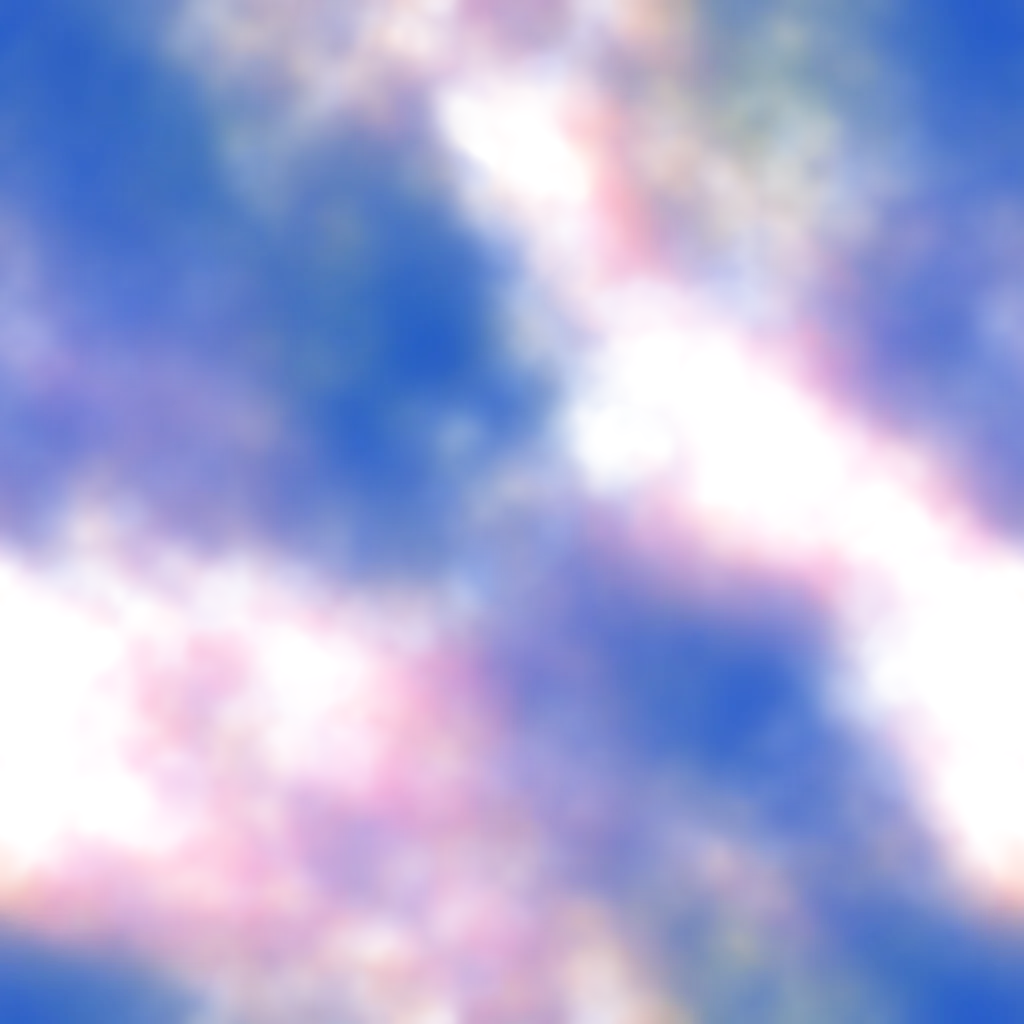
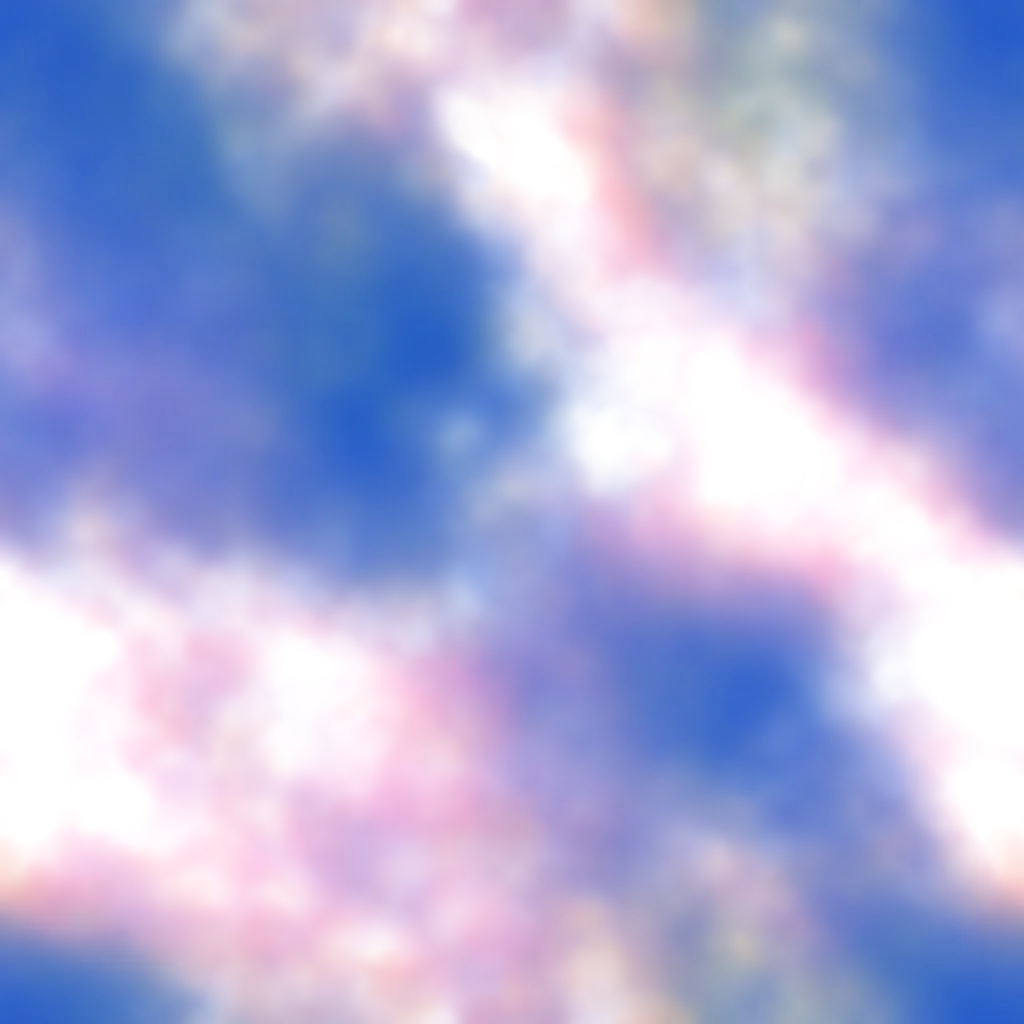
Version 218 : la couverture du ciel suit la prévision, étage par étage
Décisions de Jérôme sur cadrage : la part du ciel couverte suit la
couverture annoncée, à dix points près ; trois étages de nuages ; passage
progressif d'une heure à l'autre ; ciel fixe au défilement, avec un relief
à peine sensible ; ciel jusque sous la barre d'état, à côté de la pilule.

Mesure avant : à 50 % annoncés, 95 % de l'écran était couvert, et 46 % à
25 %.

Choix : la prévision lit les nuages bas, moyens et hauts d'Open-Meteo. Le
ciel WebGL les reçoit pour l'heure en cours et la suivante, et glisse de
l'une à l'autre au fil des minutes. Le générateur étalonne chaque texture,
trente-trois quantiles de son opacité dans src/etalonnage-nuages.js : le
seuil de chaque plan couvre exactement sa part. Les hauts en cirrus
jusqu'à 18 %, en voile d'altitude au delà ; les moyens en altocumulus, en
nappe au delà de 70 % ; les bas en deux plans superposés de cumulus,
cumulus denses ou stratus, en lambeaux sous la pluie. Les textures sont
refaites moins groupées en amas, un écran ne voyant qu'une dizaine de
nuages. Le relief au défilement est dix fois plus faible. La barre d'état
de l'application installée devient translucide ; sur les écrans clairs,
une bande sombre garde l'heure et la batterie lisibles.

Défauts trouvés en route : la part couverte mesurée sur un seul écran
variait de dix points d'un instant à l'autre, les nuages passant ; le
contrôle mesure la moyenne sur une toile élargie. À 25 % de nuages hauts,
[…]

diff --git a/src/ciel-gl.js b/src/ciel-gl.js
@@ -20,6 +20,8 @@
    `temps.js` garde la boucle, la pause hors écran et le dessin sur toile en
    repli : sans WebGL, ou quand la toile ne le demande pas, rien ne change. */
 
+import { QUANTILES } from "./etalonnage-nuages.js";
+
 const TEXTURES = ["cumulus", "dense", "stratus", "alto", "fractus", "cirrus"];
 const SORTE = { cumulus: 0, dense: 0, stratus: 1, cirrus: 2, alto: 3, fractus: 4 };
 
@@ -29,8 +31,8 @@ precision highp float;
 uniform vec2 uRes; uniform float uT, uDefile, uApparition;
 uniform vec3 uHaut, uBas, uClair, uSombre, uAstre;
 uniform float uNuit, uChaud, uPluie, uNeige, uVent, uOrage, uN, uHalo, uMiroir, uBrouillard, uVoile, uDoux;
-uniform vec4 uC[4]; // sorte, profondeur, couverture, opacité
-uniform vec4 uD[4]; // ombre, libre, graine, libre
+uniform vec4 uC[4]; // sorte, profondeur, seuil d'opacité, opacité
+uniform vec4 uD[4]; // ombre, largeur du bord, graine, libre
 uniform sampler2D uTex[4];
 uniform sampler2D uBrume;
 float h21(vec2 p){ p = fract(p * vec2(123.34, 456.21)); p += dot(p, p + 45.32); return fract(p.x * p.y); }
@@ -77,9 +79,13 @@ void main(){
     vec2 q = p / carreau;
     q.x = q.x * uMiroir;
     q.x += uT * vent * mix(0.35, 2.4, prof) * 2.4 + e.z * 0.13;
-    q.y += uDefile * mix(0.15, 1.1, prof) / carreau + e.z * 0.071;
+    /* Un relief à peine sensible au défilement, version 218 : le ciel reste
+       fixe, seuls les plans proches glissent un peu. */
+    q.y += uDefile * mix(0.0, 0.1, prof) / carreau + e.z * 0.071;
     vec4 t = texture2D(uTex[i], q);
-    float dens = smoothstep(0.06, 0.7, t.a * mix(0.6, 1.5, c.z)) * c.w * (abs(c.x - 2.0) < 0.5 ? 0.6 : 1.0) * uApparition;
+    /* Le seuil vient de l'étalonnage de la texture : la part de ciel couverte
+       est celle qu'annonce la prévision. */
+    float dens = smoothstep(c.z - e.y, c.z + e.y, t.a) * c.w * uApparition;
     if (dens < 0.003) continue;
     /* Sous un ciel ouvert, l'ombre des nuages reste claire, éclairée par le
        bleu du ciel ; sous un ciel fermé, elle prend le gris de la couche. */
@@ -178,30 +184,67 @@ const chargement = Promise.all(TEXTURES.map(n => new Promise(ok => {
    ciel-ci : `__cielSimple` est posé par le banc d'essai. */
 const simple = () => globalThis.__cielSimple === true && globalThis.__cielGL !== true;
 
-/* Les plans d'un ciel, d'après les grandeurs de `temps.js`. La variante, tirée
-   de la graine, change le mélange d'un tirage à l'autre : un ciel de beau
-   temps est tantôt fait de cumulus, tantôt de bancs d'altocumulus sous des
-   cirrus. */
+/* Les trois étages de l'heure en cours glissent vers ceux de l'heure
+   suivante au fil des minutes, version 218 : bas, moyens, hauts, de zéro à
+   un. Rend null quand la prévision ne les porte pas. */
+export function etagesA(brut, f) {
+  if (!Array.isArray(brut) || brut.length !== 6 || brut.some(v => !Number.isFinite(v))) return null;
+  const k = Math.max(0, Math.min(1, f));
+  const v = i => (brut[i] + (brut[i + 1] - brut[i]) * k) / 100;
+  return { b: v(0), m: v(2), h: v(4) };
+}
+
+/* Le seuil d'opacité qui couvre la part c de la texture, d'après son
+   étalonnage. Au delà de ce que la texture couvre, le seuil passe sous zéro
+   et le plan se ferme peu à peu en nappe. Rend aussi la largeur du bord :
+   étroite près de zéro, pour qu'un seuil bas ne voile pas tout le ciel. */
+export function seuil(tex, c) {
+  const Q = QUANTILES[tex];
+  const x = Math.max(0, Math.min(1, 1 - c)) * 32;
+  if (!Q) return { s: 1 - c, l: 0.06 };
+  const k = Math.min(31, Math.floor(x));
+  const v = Q[k] + (Q[k + 1] - Q[k]) * (x - k);
+  if (v > 0.015) return { s: v, l: Math.min(0.06, v * 0.8) };
+  const vide = Math.max(1, Q.findIndex(q => q > 0.015)) / 32;
+  const manque = Math.max(0, Math.min(1, (vide - (1 - c)) / vide));
+  return { s: 0.015 - manque * 0.14, l: 0.06 };
+}
+
+/* La couverture de chacun de deux plans qui, superposés, couvrent c. */
+const moitie = c => 1 - Math.sqrt(1 - Math.max(0, Math.min(1, c)));
+
+/* Les plans d'un ciel, du lointain au proche, quatre au plus. Avec les trois
+   étages de la prévision, chaque plan suit le sien : les hauts en cirrus, ou
+   en voile de cirrostratus au delà de ce que couvrent les fibres ; les moyens
+   en altocumulus, ou en nappe ; les bas en deux plans de cumulus, de cumulus
+   denses ou de stratus selon la couverture, et en lambeaux sous la pluie.
+   Sans les étages, la couverture totale va aux nuages bas. La variante, tirée
+   de la graine, change le mélange des nuages bas d'un tirage à l'autre. */
 export function plansDe(d, graine) {
   const v = ((graine % 3) + 3) % 3;
-  const plans = [];
-  const plan = (tex, prof, couv, op, ombre) => plans.push({ tex, prof, couv, op, ombre });
+  const E = d.etages || { b: Number.isFinite(d.couv) ? d.couv : Math.max(d.cumulus, d.nappe), m: 0, h: 0 };
   const pluie = d.lame > 0 || d.orage;
-  const ombre = Math.min(0.9, 0.3 + d.nappe * 0.2 + (pluie ? 0.3 : 0) + (d.orage ? 0.2 : 0));
-  if (d.nappe < 0.85 && d.cumulus < 0.7 && !pluie && (v !== 1 || d.cumulus < 0.15)) {
-    plan("cirrus", 0, 0.35 + 0.4 * (1 - d.cumulus), 0.55, 0);
+  const ombre = Math.min(0.9, 0.3 + E.b * 0.25 + (pluie ? 0.3 : 0) + (d.orage ? 0.2 : 0));
+  const plans = [];
+  const plan = (tex, prof, couv, op, om) => {
+    if (couv < 0.02) return;
+    const t = seuil(tex, couv);
+    plans.push({ tex, prof, couv, seuil: t.s, bord: t.l, op, ombre: om });
+  };
+  if (E.h >= 0.02) {
+    if (E.h <= 0.18) plan("cirrus", 0, E.h, 0.45, 0);
+    else plan("stratus", 0, E.h, 0.32, 0);
   }
-  if (d.nappe > 0.02) {
-    plan("stratus", 0.05, 0.5 + 0.5 * d.nappe, Math.min(1, d.nappe * 1.4), ombre);
-    if (d.nappe > 0.5) plan(v === 2 && !pluie ? "alto" : "dense", 0.45, 0.4 + 0.4 * d.nappe, 1, ombre);
+  if (E.m >= 0.02) plan(E.m <= 0.7 ? "alto" : "stratus", 0.3, E.m, 0.95, ombre * 0.8);
+  if (E.b >= 0.02) {
+    const c = moitie(E.b);
+    const sorte = cb => (cb > 0.85 ? "stratus" : cb > 0.42 ? "dense" : "cumulus");
+    const loin = E.b > 0.85 ? "stratus" : sorte(c);
+    plan(loin, 0.6, c, 1, ombre);
+    if (pluie) plan("fractus", 0.95, Math.min(0.55, c), 0.92, Math.min(0.95, ombre + 0.1));
+    else plan(v === 1 && c > 0.1 ? "dense" : sorte(c), 0.92, c, 1, ombre);
   }
-  if (d.cumulus > 0.02) {
-    const mi = d.cumulus >= 0.55 ? "dense" : v === 1 ? "alto" : "cumulus";
-    plan(mi, 0.45, Math.min(0.9, d.cumulus * 0.85), 1, ombre);
-    if (plans.length < 4 && d.cumulus > 0.12) plan(d.cumulus >= 0.55 ? "dense" : "cumulus", 0.9, d.cumulus * 0.6, 1, ombre);
-  }
-  if (pluie && plans.length < 4) plan("fractus", 0.95, Math.min(0.75, 0.3 + d.lame * 0.05), 0.92, Math.min(0.95, ombre + 0.1));
-  return plans.slice(0, 4);
+  return plans.slice(-4);
 }
 
 /* Le peintre d'une toile, ou null quand WebGL manque. */
@@ -287,14 +330,14 @@ export function peintre(cv) {
     g.uniform1f(U.uVoile, e.voile);
     g.uniform1f(U.uDoux, e.derriere ? 1 : 0);
     const plans = plansDe(e, e.graine);
-    g.uniform1f(U.uHalo, plans.some(p => p.tex === "cirrus") && e.cumulus < 0.3 && e.nappe < 0.3 ? 0.7 : 0);
+    g.uniform1f(U.uHalo, plans.some(p => p.tex === "cirrus" || (p.tex === "stratus" && p.prof === 0)) && plans.every(p => p.prof === 0 || p.couv < 0.3) ? 0.7 : 0);
     const C = new Float32Array(16), D = new Float32Array(16);
     plans.forEach((p, i) => {
-      C.set([SORTE[p.tex], p.prof, p.couv, p.op], i * 4);
+      C.set([SORTE[p.tex], p.prof, p.seuil, p.op], i * 4);
       /* Le décalage du tirage reste petit : ajouté tel quel, un nombre de
          l'ordre de cent mille dépassait la précision de la carte graphique,
          et les nuages sortaient en pavés. */
-      D.set([p.ombre, 0, ((e.graine * 0.618034) % 1) * 7 + i * 3.7, 0], i * 4);
+      D.set([p.ombre, p.bord, ((e.graine * 0.618034) % 1) * 7 + i * 3.7, 0], i * 4);
     });
     g.uniform4fv(U.uC, C); g.uniform4fv(U.uD, D); g.uniform1f(U.uN, plans.length);
     plans.forEach((p, i) => { g.activeTexture(g.TEXTURE0 + i); g.bindTexture(g.TEXTURE_2D, tex[p.tex] || null); });

diff --git a/src/temps.js b/src/temps.js
@@ -71,7 +71,7 @@ export function depuis(code, nua, mm) {
   const lame = mouille ? borne((mm ?? 0) * 1.6, 1.2, 10) : 0;
 
   return {
-    cumulus, nappe, lame, brouillard, orage,
+    cumulus, nappe, lame, brouillard, orage, couv: n,
     genre: mouille ? (neige ? "neige" : "pluie") : "",
   };
 }
@@ -138,6 +138,11 @@ export function attributs(p, ciel, vent, astre) {
     "data-astre": astre ? astre.sorte : "",
     "data-ax": astre ? astre.x.toFixed(4) : "",
     "data-ay": astre ? astre.y.toFixed(4) : "",
+    /* La couverture totale, et les trois étages de l'heure en cours et de
+       la suivante quand la prévision les porte : le ciel WebGL s'en sert,
+       version 218. */
+    "data-couv": Number.isFinite(p.couv) ? p.couv.toFixed(3) : "",
+    "data-etages": Array.isArray(p.etages) ? p.etages.map(v => Math.round(Number(v) || 0)).join(",") : "",
   };
   return Object.entries(a).map(([c, v]) => `${c}="${v}"`).join(" ");
 }
@@ -158,6 +163,8 @@ function lire(cv) {
       nuit: Number(d.nuit) || 0, chaud: Number(d.chaud) || 0,
     },
     astre: d.astre ? { sorte: d.astre, x: Number(d.ax), y: Number(d.ay) } : null,
+    couv: d.couv === undefined || d.couv === "" ? null : Number(d.couv),
+    etages: d.etages ? d.etages.split(",").map(Number) : null,
   };
 }
 
@@ -920,7 +927,9 @@ export const enWebGL = cv => Boolean(cv && peintres.get(cv));
 const signatures = new WeakMap();
 function etatPour(cv, p) {
   const derriere = Boolean(cv.parentElement?.querySelector(".ci-astre.derriere #ciFeu"));
-  const sig = Object.values(cv.dataset).join("|") + derriere;
+  /* La minute compte : les étages de nuages glissent vers l'heure suivante. */
+  const minute = new Date().getMinutes();
+  const sig = Object.values(cv.dataset).join("|") + derriere + minute;
   if (signatures.get(cv) === sig) return;
   signatures.set(cv, sig);
   const d = lire(cv);
@@ -930,6 +939,7 @@ function etatPour(cv, p) {
     teinte: couleurs(d.ciel, couv, plombDe(d)),
     voile: voileDe(d),
     derriere,
+    etages: CielGL.etagesA(d.etages, minute / 60),
     /* Le tirage change toutes les trois heures : le même ciel d'un rendu à
        l'autre, un autre mélange de nuages dans la journée. */
     graine: Math.floor(Date.now() / (3 * 3600e3)),

diff --git a/src/etalonnage-nuages.js b/src/etalonnage-nuages.js
@@ -1,0 +1,15 @@
+/* L'étalonnage des textures de nuages, produit par
+   `node outils/construire-nuages.mjs` : ne pas modifier à la main.
+
+   Pour chaque texture, trente-trois quantiles de l'opacité, de zéro à un :
+   le quantile de rang k est l'opacité sous laquelle tombe la part k sur
+   trente-deux de la texture. Le ciel WebGL en déduit le seuil qui couvre
+   exactement la part de ciel annoncée, version 218. */
+export const QUANTILES = {
+  cumulus: [0, 0, 0, 0, 0, 0, 0, 0, 0, 0, 0, 0, 0, 0, 0, 0, 0, 0, 0.008, 0.023, 0.049, 0.094, 0.164, 0.227, 0.302, 0.386, 0.469, 0.548, 0.628, 0.694, 0.749, 0.8, 0.882],
+  dense: [0, 0, 0.014, 0.055, 0.124, 0.195, 0.257, 0.317, 0.369, 0.41, 0.45, 0.49, 0.529, 0.563, 0.598, 0.629, 0.658, 0.686, 0.715, 0.741, 0.763, 0.782, 0.8, 0.817, 0.833, 0.851, 0.87, 0.886, 0.902, 0.918, 0.93, 0.945, 0.969],
+  stratus: [0.38, 0.63, 0.693, 0.726, 0.756, 0.778, 0.796, 0.812, 0.827, 0.839, 0.85, 0.859, 0.867, 0.875, 0.88, 0.886, 0.892, 0.897, 0.902, 0.906, 0.91, 0.915, 0.92, 0.925, 0.929, 0.933, 0.939, 0.947, 0.957, 0.969, 0.973, 0.98, 0.984],
+  alto: [0, 0, 0, 0, 0, 0, 0.006, 0.02, 0.038, 0.058, 0.079, 0.1, 0.123, 0.146, 0.169, 0.192, 0.216, 0.239, 0.267, 0.294, 0.324, 0.355, 0.384, 0.413, 0.44, 0.467, 0.491, 0.516, 0.543, 0.571, 0.61, 0.65, 0.753],
+  fractus: [0, 0, 0, 0, 0, 0, 0, 0, 0, 0, 0, 0, 0.007, 0.017, 0.032, 0.053, 0.077, 0.106, 0.14, 0.179, 0.225, 0.271, 0.317, 0.361, 0.402, 0.444, 0.486, 0.525, 0.563, 0.603, 0.646, 0.7, 0.868],
+  cirrus: [0, 0, 0, 0, 0, 0, 0, 0, 0, 0, 0, 0, 0, 0, 0, 0, 0, 0, 0, 0, 0, 0.001, 0.004, 0.012, 0.022, 0.033, 0.048, 0.066, 0.086, 0.111, 0.145, 0.189, 0.375],
+};

diff --git a/src/previsions.js b/src/previsions.js
@@ -39,6 +39,9 @@ const HORAIRE = [
   "temperature_2m", "apparent_temperature", "dew_point_2m",
   "relative_humidity_2m", "precipitation", "precipitation_probability",
   "weather_code", "cloud_cover", "pressure_msl", "wind_speed_10m",
+  /* Les trois étages de nuages, bas, moyens et hauts, pour le ciel WebGL de
+     l'accueil, version 218 : chaque plan de nuages suit le sien. */
+  "cloud_cover_low", "cloud_cover_mid", "cloud_cover_high",
   "wind_gusts_10m", "wind_direction_10m", "uv_index", "is_day",
   /* L'évapotranspiration de référence, en millimètres par heure. C'est la
      vitesse à laquelle l'eau s'en va, et elle décide du séchage du linge.
@@ -635,6 +638,7 @@ export function serieHoraire(depart = 0, duree = 24, minimum = 8) {
     hum: p("relative_humidity_2m"), mm: p("precipitation", true),
     pb: p("precipitation_probability"), code: p("weather_code"),
     nua: p("cloud_cover"), pres: p("pressure_msl"),
+    nuaB: p("cloud_cover_low"), nuaM: p("cloud_cover_mid"), nuaH: p("cloud_cover_high"),
     v: p("wind_speed_10m"), raf: p("wind_gusts_10m"), dir: p("wind_direction_10m"),
     uv: p("uv_index"), clair: p("is_day"),
     /* La vitesse à laquelle l'eau s'en va. Une heure sans valeur vaut zéro et

diff --git a/outils/nuages.html b/outils/nuages.html
@@ -126,6 +126,20 @@ window.rendre = async (taille, reglages) => {
     await new Promise(r => setTimeout(r, 0));
   }
   g.disable(g.SCISSOR_TEST);
-  return cv.toDataURL("image/webp", 0.86);
+  /* L'étalonnage : la répartition de l'opacité, lue sur l'image réduite de
+     moitié, celle que la carte graphique échantillonne pour les plans
+     lointains. Trente-trois quantiles, de zéro à un. */
+  const px = new Uint8Array(taille * taille * 4);
+  g.readPixels(0, 0, taille, taille, g.RGBA, g.UNSIGNED_BYTE, px);
+  const m = taille / 2, alpha = new Float32Array(m * m);
+  for (let y = 0; y < m; y++) for (let x = 0; x < m; x++) {
+    let s = 0;
+    for (const [dx, dy] of [[0, 0], [1, 0], [0, 1], [1, 1]]) s += px[((2 * y + dy) * taille + 2 * x + dx) * 4 + 3];
+    alpha[y * m + x] = s / 4 / 255;
+  }
+  alpha.sort();
+  const quantiles = [];
+  for (let k = 0; k <= 32; k++) quantiles.push(Math.round(alpha[Math.min(alpha.length - 1, Math.floor(k / 32 * alpha.length))] * 1000) / 1000);
+  return { image: cv.toDataURL("image/webp", 0.86), quantiles };
 };
 </script>

diff --git a/styles.css b/styles.css
@@ -309,6 +309,15 @@ button:disabled,button[aria-disabled="true"],input:disabled{
   transition:border-color var(--duree-micro) ease;
 }
 .nav.pose{border-bottom-color:var(--verre-filet)}
+/* L'application installée dessine jusque sous la barre d'état, version 218 :
+   l'heure et la batterie s'y écrivent en blanc. Sur un écran clair, une bande
+   sombre sous la barre d'état les garde lisibles ; dans le navigateur, la
+   marge du haut est nulle et la bande aussi. */
+@media (prefers-color-scheme:light){
+  :root:not(.plein-ciel) .nav:not(.sur-ciel){
+    background-image:linear-gradient(180deg,rgba(18,26,38,.62) 0,rgba(18,26,38,.62) var(--haut),transparent var(--haut));
+  }
+}
 
 /* Sur un bandeau plein cadre, la barre de tête laisse voir le ciel : pas de
    matière, pas de filet, texte blanc. Elle reprend son verre dès que le

diff --git a/index.html b/index.html
@@ -16,7 +16,8 @@
 <meta name="theme-color" content="#0B0F14" media="(prefers-color-scheme: dark)">
 <meta name="description" content="Prévision heure par heure et à seize jours, pluie dans l'heure, vigilance Météo-France, ciel et carte.">
 <meta name="apple-mobile-web-app-capable" content="yes">
-<meta name="apple-mobile-web-app-status-bar-style" content="default">
+<!-- L'application installée dessine jusque sous la barre d'état, version 218 : le ciel de l'accueil occupe tout l'écran, à côté de la pilule. -->
+<meta name="apple-mobile-web-app-status-bar-style" content="black-translucent">
 <meta name="apple-mobile-web-app-title" content="Ma météo">
 <title>Ma météo</title>
 <link rel="manifest" href="./manifest.webmanifest">

diff --git a/src/app.js b/src/app.js
@@ -665,6 +665,11 @@ function ecranAccueil() {
        fond de page, la lisibilité : un chiffre orange sur un ciel de couchant
        ne se lit plus. */
     const params = Temps.depuis(code, s ? s.nua[0] : null, s ? s.mm[0] : null);
+    /* Les trois étages de nuages de l'heure en cours et de la suivante : le
+       ciel WebGL passe de l'une à l'autre au fil des minutes, version 218. */
+    if (s && s.nuaB?.length > 1 && s.nuaM?.length > 1 && s.nuaH?.length > 1) {
+      params.etages = [s.nuaB[0], s.nuaB[1], s.nuaM[0], s.nuaM[1], s.nuaH[0], s.nuaH[1]];
+    }
     plein = true;
     const bd = bandeauAccueil(g, new Date(), params, s ? s.v[0] : 0);
     /* Le ciel de l'accueil est plus bas que celui des autres écrans : la bande

diff --git a/sw.js b/sw.js
@@ -2,7 +2,7 @@
    réponse d'API : une prévision périmée servie sans le dire vaut moins qu'un
    message d'indisponibilité. */
 
-const VERSION = "ma-meteo-v217";
+const VERSION = "ma-meteo-v218";
 const DELAI_RESEAU = 3000;
 const COQUE = [
   "./",
@@ -42,6 +42,7 @@ const COQUE = [
   "./src/relief.js",
   "./src/temps.js",
   "./src/ciel-gl.js",
+  "./src/etalonnage-nuages.js",
   "./src/vigilance.js",
   "./src/ensemble.js",
   "./src/scenarios.js",

diff --git a/src/version.js b/src/version.js
@@ -12,7 +12,7 @@
    c'est de savoir qu'elle existe pendant que l'application reste ouverte en
    arrière-plan, parfois des jours sur iPhone. Demandé le 23 septembre 2026. */
 
-export const VERSION = "ma-meteo-v217";
+export const VERSION = "ma-meteo-v218";
 
 export const numeroDe = v => {
   const m = /-v(\d+)$/.exec(v || "");

diff --git a/CLAUDE.md b/CLAUDE.md
@@ -23,7 +23,7 @@ Ce fichier se lit au début de chaque session. Le détail des décisions vit dan
 | `src/stations.js`, `src/plages.js` | Les listes embarquées des stations de ski et des plages, produites par `outils/` |
 | `outils/` | Les scripts de construction des listes embarquées |
 | `donnees/relief.webp`, `relief.json`, `rivieres.json`, `villes.json` | Le fond enrichi de la carte depuis la version 142, produit par `node outils/construire-fond.mjs` et dessiné par `src/fond.js` |
-| `donnees/nuages/*.webp`, `src/ciel-gl.js` | Le ciel WebGL de l'accueil plein ciel depuis la version 216 : six textures de nuages calculées par un rendu volumique, `node outils/construire-nuages.mjs`, posées en plusieurs plans par `src/ciel-gl.js` ; `src/temps.js` garde la boucle et le dessin sur toile en repli. Le banc coupe ce ciel d'office, `__cielSimple`, sauf la section 76 qui pose `__cielGL` ; `CIELGL=1` le montre dans `vue-ecran.mjs` |
+| `donnees/nuages/*.webp`, `src/ciel-gl.js` | Le ciel WebGL de l'accueil plein ciel depuis la version 216 : six textures de nuages calculées par un rendu volumique, `node outils/construire-nuages.mjs`, posées en plusieurs plans par `src/ciel-gl.js`, étalonnées par `src/etalonnage-nuages.js`, que produit le même outil : la part du ciel couverte suit la couverture annoncée, étage par étage, bas, moyens et hauts, depuis la version 218 ; `src/temps.js` garde la boucle et le dessin sur toile en repli. Le banc coupe ce ciel d'office, `__cielSimple`, sauf la section 76 qui pose `__cielGL` ; `CIELGL=1` le montre dans `vue-ecran.mjs` |
 | `essais/` | La suite de contrôles : `controle.mjs` la lance, `banc.mjs` prépare chaque section, `faux-services.mjs` répond à la place des vraies sources, `sections/` porte une section par fichier ; `vue-ecran.mjs` fait les captures avec les mêmes faux services |
 | `docs/` | La feuille de route, l'état de reprise, les consignes du projet |
 
@@ -31,7 +31,7 @@ Les sources de données, toutes interrogées depuis le navigateur :
 
 | Source | Emploi | Particularités |
 |---|---|---|
-| Open-Meteo | Prévision, ensembles, archive, mer, sol, neige, air ; prévisions passées pour la justesse récente, `previous-runs-api`, depuis la version 197 | Quota gratuit compté par adresse : des essais répétés depuis un même poste finissent en refus 429. Le téléphone de l'utilisateur n'est pas concerné. Une réponse garde un seul décalage horaire, celui du moment de la requête : toute lecture passe par `recaler` de `src/horloge.js`, qui la récrit à l'heure de Paris. Depuis la version 131, `cleJour` et `cleHeure` écrivent un instant à l'heure de Paris, et `instantParis` lit une heure des données comme un instant de Paris : un téléphone réglé sur un autre fuseau trouve les bonnes heures |
+| Open-Meteo | Prévision, dont les trois étages de nuages depuis la version 218, ensembles, archive, mer, sol, neige, air ; prévisions passées pour la justesse récente, `previous-runs-api`, depuis la version 197 | Quota gratuit compté par adresse : des essais répétés depuis un même poste finissent en refus 429. Le téléphone de l'utilisateur n'est pas concerné. Une réponse garde un seul décalage horaire, celui du moment de la requête : toute lecture passe par `recaler` de `src/horloge.js`, qui la récrit à l'heure de Paris. Depuis la version 131, `cleJour` et `cleHeure` écrivent un instant à l'heure de Paris, et `instantParis` lit une heure des données comme un instant de Paris : un téléphone réglé sur un autre fuseau trouve les bonnes heures |
 | Météo-France, portail des API | PIAF, prévision immédiate de la pluie, carte et point, depuis la version 186 ; observations des stations pour la justesse, depuis la version 187, et la mesure du moment, depuis la version 192 ; météo des forêts, `src/foret.js`, depuis la version 188 ; bulletins d'avalanche, `src/avalanche.js`, depuis la version 189 | Clé gratuite du portail des API, saisie dans les réglages et gardée sur l'appareil, jamais dans le dépôt ; `api.meteofrance.fr/pro/piaf/1.0`, la clé en tête de l'adresse ; 50 requêtes par minute. La clé de Jérôme pour les essais est dans `~/.config/ma-meteo/cle-meteofrance` |
 | Météo-France | Vigilance, pluie dans l'heure | Le drapeau `rain_product_available` de la pluie dans l'heure ne dit pas la couverture du radar : il valait zéro à Pignan sous la pluie le 4 octobre 2026. Depuis la version 171, une pluie annoncée se lit quel que soit le drapeau |
 | VigiEau | Restrictions d'eau, par département et pour un point ; zones d'alerte sur la carte depuis la version 152 | Accepte les requêtes de l'application. Les zones viennent d'une archive PMTiles refaite chaque jour, `regleau.s3.gra.perf.cloud.ovh.net`, lue par plages d'octets par `src/zones-eau.js` |
@@ -99,14 +99,14 @@ installe Playwright 1.63.0, puis `npx playwright install chromium`.
 
 | Commande | Effet |
 |---|---|
-| `bash essais/passe.sh 8137` | La suite complète, sur une copie du dépôt dans `/tmp/passe-<port>` ; trois minutes, 1292 contrôles à la version 217 |
+| `bash essais/passe.sh 8137` | La suite complète, sur une copie du dépôt dans `/tmp/passe-<port>` ; trois minutes, 1298 contrôles à la version 218 |
 | `SECTIONS="carte,vent" bash essais/passe.sh 8137` | Les seules sections dont le titre ou le nom de fichier contient l'un des motifs |
 | `JUSQUA="La bande horaire" bash essais/passe.sh 8137` | La suite jusqu'à la fin d'une section |
 | `PARALLELE=1 CHRONO=1 bash essais/passe.sh 8137` | Une section à la fois, avec le temps de chacune ; trois passent côte à côte par défaut |
 | `bash essais/epreuve-bande.sh <n>` | Une erreur volontaire : le script introduit l'erreur numéro n dans une copie, ne passe que la section qui porte le contrôle attendu, et vérifie qu'il échoue. Verdicts possibles : vue, non vue, non appliquée, ou épreuve interrompue |
 
 Les erreurs volontaires sont numérotées dans `essais/epreuve-bande.sh` ; la
-dernière porte le numéro 557. Tout contrôle nouveau a son erreur volontaire, et
+dernière porte le numéro 564. Tout contrôle nouveau a son erreur volontaire, et
 une erreur volontaire éprouvée pendant que son contrôle échoue déjà sur le bon
 code doit être repassée.
 
@@ -192,7 +192,7 @@ Les consignes détaillées du projet sont dans `docs/consignes/`.
 
 ## État au 8 octobre 2026
 
-Version 217, publiée depuis Claude Code. Jalons livrés : 1 à 4, 7 à 18, dont 14, la comparaison ; 15, les
+Version 218, publiée depuis Claude Code. Jalons livrés : 1 à 4, 7 à 18, dont 14, la comparaison ; 15, les
 plages ; 16, la neige ; 17, la semaine au plus loin ; 18, les couches de la
 carte et l'eau ; 19, la carte enrichie, livré
 en versions 140 à 153, repris en versions 154 et 155. Jalon 20, textes,

diff --git a/docs/feuille-de-route.md b/docs/feuille-de-route.md
@@ -1308,3 +1308,4 @@ Les deux premières lignes se lèvent avec le même service dorsal minimal. Les 
 | 17 octobre 2026 | Version 215, demandé par Jérôme : une vraie fluidité de la morphose. Sur les navigateurs qui savent lier une animation au défilement, Safari 26 et Chrome 115 et suivants, la morphose de la température et de l'état, la levée du bandeau du haut et l'effacement du titre ne passent plus par le fil principal : `animerMorph` de `src/app.js` pose sur le défilement de la page une animation échantillonnée en vingt et une étapes, `ScrollTimeline`, et la feuille de style lie les fondus à `scroll(root)` ; le compositeur les rejoue à chaque image, même pendant l'élan du doigt. Les autres navigateurs gardent la morphose de la version 214. Contrôle de la section 72 repris, la date lue par son opacité ; erreurs volontaires 547 à 549 vues. Passe complète verte, 1284 contrôles ; un échec isolé sur la feuille des rivières pendant une charge du Mac, repassé vert seul puis dans la suite |
 | 17 octobre 2026 | Version 216, demandé par Jérôme sur maquette, en s'inspirant de l'application d'Apple : un ciel plus réaliste, plusieurs plans de nuages à des vitesses différentes pour la profondeur, et des ciels variés. Le ciel de l'accueil plein ciel est peint en WebGL, `src/ciel-gl.js` : six textures de nuages, cumulus, cumulus denses, stratus, altocumulus, lambeaux de pluie et cirrus, calculées à l'avance par un rendu volumique, `outils/construire-nuages.mjs` et `outils/nuages.html`, 1,1 Mo dans `donnees/nuages/` ; jusqu'à quatre plans, lointains petits et lents, proches grands et rapides, qui glissent aussi avec la page ; trois variantes tirées toutes les trois heures ; couleurs reprises de la palette de `temps.js` ; éblouissement, halo irisé, reflets d'objectif, pluie, neige, brouillard et éclairs. La toile est transparente, le Soleil et la Lune restent ceux du panneau. Sans WebGL, le dessin sur toile reste en place. Le ciel WebGL ne se met pas en pause au glissement. Défaut trouvé en route : la graine du tirage, de l'ordre de cent mille, ajoutée aux coordonnées des textures, dépassait la précision de la carte graphique et les nuages sortaient en pavés. Section 76 nouvelle, sept contrôles ; le banc coupe le ciel WebGL pour les autres sections. Erreurs volontaires 550 à 556 vues. Passe complète verte, 1291 contrôles |
 | 17 octobre 2026 | Version 217, signalé par Jérôme sur le téléphone : les rayons et le rendu du Soleil, surtout au centre. Le disque plat du panneau et les rayons du ciel WebGL se superposaient, les rayons se pinçant en étoile au centre. Sous le ciel WebGL, le Soleil est peint par la carte graphique : un cœur blanc surexposé posé avant les nuages, qu'un nuage cache en passant, une lueur blanche qui traverse les nuages minces, un éblouissement en trois couches, des rayons fins de longueurs inégales qui naissent hors du cœur et tournent très lentement. Le disque du panneau reste en place, transparent, pour le toucher qui ouvre le Soleil en plein écran. Derrière le texte, le Soleil s'adoucit comme le disque. Contrôle nouveau dans la section 76, erreur volontaire 557 vue. Passe complète verte, 1292 contrôles |
+| 17 octobre 2026 | Version 218, décisions de Jérôme sur cadrage : la part du ciel couverte suit la couverture annoncée, à dix points près ; trois étages de nuages ; passage progressif d'une heure à l'autre ; ciel fixe au défilement, avec un relief à peine sensible ; ciel jusque sous la barre d'état. Mesure avant : à 50 % annoncés, 95 % de l'écran était couvert. La prévision lit désormais les nuages bas, moyens et hauts d'Open-Meteo ; le ciel WebGL les reçoit pour l'heure en cours et la suivante et glisse de l'une à l'autre au fil des minutes. Chaque texture est étalonnée par le générateur, trente-trois quantiles de son opacité dans `src/etalonnage-nuages.js` : le seuil de chaque plan couvre exactement sa part, et au delà de ce que couvre la texture le plan se ferme en nappe. Les hauts en cirrus jusqu'à 18 %, en voile d'altitude au delà ; les moyens en altocumulus, en nappe au delà de 70 % ; les bas en deux plans superposés de cumulus, cumulus denses ou stratus, en lambeaux sous la pluie. Les textures sont refaites moins groupées en amas : un écran ne voit qu'une dizaine de nuages. Mesure après, en moyenne sur une toile élargie : à dix points près de 10 à 90 %. Le relief au défilement est dix fois plus faible. La barre d'état de l'application installée devient translucide ; sur les écrans clairs, une bande sombre garde l'heure lisible. Six contrôles nouveaux dans la section 76, erreurs volontaires 558 à 564 vues. Passe complète verte, 1298 contrôles |
